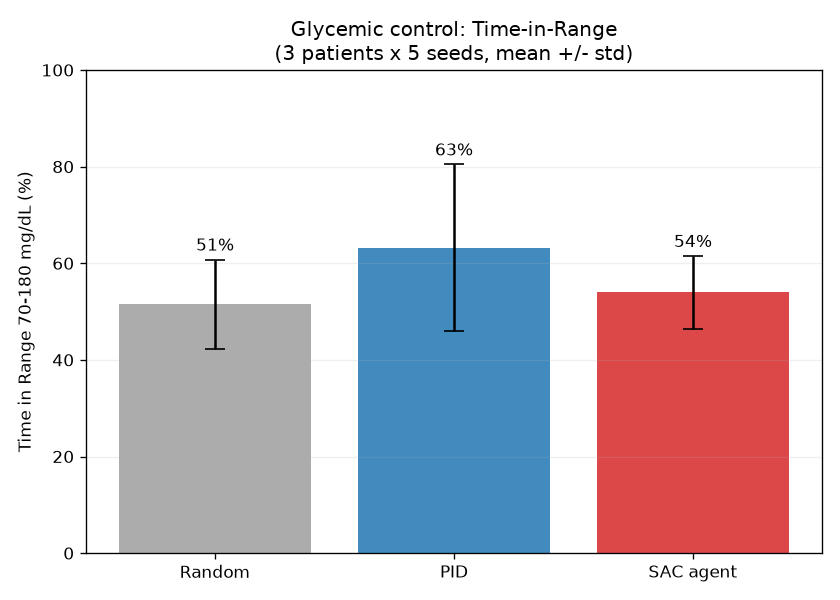
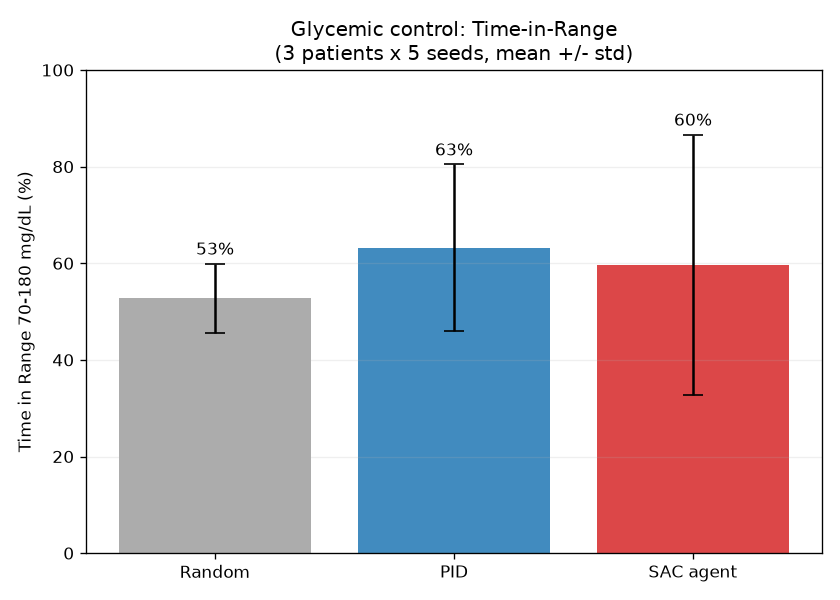
Add multi-patient generalization harness; correct README overclaims
- cohorts.py: 30-patient cohorts + stratified held-out train/test split
- wrappers.py: ResamplePatientWrapper (per-episode patient sampling) + a
  shared make_glucose_env factory for train/eval parity
- train_pooled.py: pooled multi-patient SAC; best model selected on HELD-OUT patients
- benchmark.py: report TBR/TAR/mean glucose + paired Wilcoxon SAC-vs-PID test
- README: drop the unsubstantiated SB3-validation claim; qualify the PID win
  as training-patient-only; document the generalization gap and unsafe TBR

diff --git a/scripts/train_pooled.py b/scripts/train_pooled.py
@@ -1,0 +1,125 @@
+"""
+Pooled multi-patient SAC training with HELD-OUT evaluation.
+
+Trains on a cohort of patients (a fresh patient is sampled each episode) and
+selects the best model by performance on a DISJOINT set of held-out patients.
+This is the protocol required to claim *generalizable* glucose control rather
+than single-patient overfitting — the central weakness of the first study.
+
+Default split: stratified hold-out of `--holdout-per-cohort` patients from each
+of {adolescent, adult, child} (2 each -> 24 train / 6 unseen test).
+
+Run from the project root:
+    python scripts/train_pooled.py --timesteps 500000 --n-envs 6 --seed 0
+    python scripts/train_pooled.py --holdout-per-cohort 2 --seed 1
+"""
+from __future__ import annotations
+
+import argparse
+import os
+import sys
+import time
+
+sys.path.insert(0, os.path.dirname(os.path.dirname(os.path.abspath(__file__))))
+
+from stable_baselines3 import SAC
+from stable_baselines3.common.callbacks import CheckpointCallback, EvalCallback
+from stable_baselines3.common.monitor import Monitor
+from stable_baselines3.common.vec_env import DummyVecEnv, SubprocVecEnv
+
+from diabetes_rl.cohorts import stratified_holdout
+from diabetes_rl.envs import STEPS_PER_DAY
+from diabetes_rl.rewards import REWARD_FUNCTIONS
+from diabetes_rl.wrappers import make_glucose_env
+
+PROJECT_ROOT = os.path.dirname(os.path.dirname(os.path.abspath(__file__)))
+MODELS_DIR = os.path.join(PROJECT_ROOT, "models", "pooled")
+LOGS_DIR = os.path.join(PROJECT_ROOT, "logs")
+
+
+def make_train_fn(idx, train_patients, reward_name, history, terminal_penalty, seed):
+    """Factory for one training worker (its own seed -> diverse patient sampling)."""
+    def _init():
+        return Monitor(make_glucose_env(
+            env_id=f"simglucose/pooled-train-s{seed}-w{idx}-v0",
+            patient_name=train_patients,
+            reward_fun=REWARD_FUNCTIONS[reward_name],
+            env_seed=seed * 1000 + idx,
+            history_len=history,
+            terminal_penalty=terminal_penalty,
+        ))
+    return _init
+
+
+def main():
+    p = argparse.ArgumentParser(description=__doc__)
+    p.add_argument("--timesteps", type=int, default=500_000)
+    p.add_argument("--n-envs", type=int, default=6)
+    p.add_argument("--holdout-per-cohort", type=int, default=2)
+    p.add_argument("--reward", default="magni", choices=list(REWARD_FUNCTIONS))
+    p.add_argument("--history", type=int, default=4)
+    p.add_argument("--terminal-penalty", type=float, default=100.0)
+    p.add_argument("--seed", type=int, default=0)
+    p.add_argument("--out", default=os.path.join(MODELS_DIR, "sac_pooled"))
+    p.add_argument("--checkpoint-freq", type=int, default=50_000)
+    p.add_argument("--eval-freq", type=int, default=25_000)
+    args = p.parse_args()
+
+    os.makedirs(MODELS_DIR, exist_ok=True)
+    os.makedirs(LOGS_DIR, exist_ok=True)
+
+    # NOTE: the split is keyed on a FIXED seed (0) so the held-out patients are
+    # identical across training seeds -> a fair, comparable generalization test.
+    train_patients, test_patients = stratified_holdout(args.holdout_per_cohort, seed=0)
+    print(f"TRAIN ({len(train_patients)}): {train_patients}")
+    print(f"HELD-OUT TEST ({len(test_patients)}): {test_patients}")
+
+    split_path = os.path.join(MODELS_DIR, "split.txt")
+    with open(split_path, "w") as f:
+        f.write("train," + ",".join(train_patients) + "\n")
+        f.write("test," + ",".join(test_patients) + "\n")
+
+    fns = [make_train_fn(i, train_patients, args.reward, args.history,
+                         args.terminal_penalty, args.seed) for i in range(args.n_envs)]
+    env = SubprocVecEnv(fns) if args.n_envs > 1 else DummyVecEnv(fns)
+
+    eval_env = Monitor(make_glucose_env(
+        env_id=f"simglucose/pooled-eval-s{args.seed}-v0",
+        patient_name=test_patients, reward_fun=REWARD_FUNCTIONS[args.reward],
+        env_seed=99999, history_len=args.history, terminal_penalty=args.terminal_penalty))
+
+    model = SAC(
+        "MlpPolicy", env,
+        learning_rate=3e-4, buffer_size=300_000, learning_starts=5_000,
+        batch_size=256, gamma=0.99, tau=0.005, train_freq=1, gradient_steps=1,
+        verbose=1, seed=args.seed, tensorboard_log=LOGS_DIR,
+    )
+
+    best_dir = os.path.join(MODELS_DIR, f"best_seed{args.seed}")
+    ckpt_dir = os.path.join(MODELS_DIR, "checkpoints")
+    callbacks = [
+        CheckpointCallback(save_freq=max(args.checkpoint_freq // args.n_envs, 1),
+                           save_path=ckpt_dir, name_prefix=f"pooled_s{args.seed}"),
+        EvalCallback(eval_env, best_model_save_path=best_dir, log_path=LOGS_DIR,
+                     eval_freq=max(args.eval_freq // args.n_envs, 1),
+                     n_eval_episodes=6, deterministic=True, verbose=0),
+    ]
+
+    print(f"\nPooled SAC: {args.timesteps:,} steps on {len(train_patients)} patients, "
+          f"seed {args.seed}, {args.n_envs} envs. Best model chosen on held-out patients.\n")
+    t0 = time.time()
+    model.learn(total_timesteps=args.timesteps, callback=callbacks, progress_bar=False)
+    model.save(args.out)
+    env.close()
+    eval_env.close()
+
+    dt = (time.time() - t0) / 60
+    best_model = os.path.join(best_dir, "best_model")
+    print(f"\nDone in {dt:.1f} min. Final -> {args.out}.zip | Best(held-out) -> {best_model}.zip")
+    print("\nEvaluate on the HELD-OUT patients (the headline number):")
+    print(f"  python scripts/benchmark.py --model {best_model} "
+          f"--patients {' '.join(test_patients)} --seeds 5")
+
+
+if __name__ == "__main__":
+    main()

diff --git a/diabetes_rl/cohorts.py b/diabetes_rl/cohorts.py
@@ -1,0 +1,46 @@
+"""
+Patient cohorts and train/test splits for the simglucose UVA/Padova population.
+
+The simulator ships 30 virtual patients: 10 adolescents, 10 adults, 10 children.
+Robust glucose control must generalize *across* this population, so we never
+evaluate on a patient the agent trained on. These helpers define the cohorts and
+produce held-out splits for that purpose.
+"""
+from __future__ import annotations
+
+import random
+
+ADOLESCENTS = [f"adolescent#{i:03d}" for i in range(1, 11)]
+ADULTS = [f"adult#{i:03d}" for i in range(1, 11)]
+CHILDREN = [f"child#{i:03d}" for i in range(1, 11)]
+COHORTS = {"adolescent": ADOLESCENTS, "adult": ADULTS, "child": CHILDREN}
+ALL_PATIENTS = ADOLESCENTS + ADULTS + CHILDREN  # 30 patients
+
+
+def train_test_split(test_patients):
+    """Explicit split: everything not in ``test_patients`` is training.
+
+    Use this for leave-one-(or-few)-patient-out studies where you choose the
+    held-out patients by name.
+    """
+    test = list(test_patients)
+    unknown = [p for p in test if p not in ALL_PATIENTS]
+    if unknown:
+        raise ValueError(f"unknown patient(s): {unknown}")
+    train = [p for p in ALL_PATIENTS if p not in test]
+    return train, test
+
+
+def stratified_holdout(n_per_cohort: int = 2, seed: int = 0):
+    """Hold out ``n_per_cohort`` patients from EACH cohort as the test set.
+
+    Stratifying keeps the held-out set representative of all three physiologies
+    (e.g. n=2 -> 6 unseen test patients, 24 training patients). Returns
+    ``(train_patients, test_patients)``.
+    """
+    rng = random.Random(seed)
+    test = []
+    for cohort in COHORTS.values():
+        test.extend(rng.sample(cohort, n_per_cohort))
+    train = [p for p in ALL_PATIENTS if p not in test]
+    return train, test

diff --git a/diabetes_rl/wrappers.py b/diabetes_rl/wrappers.py
@@ -25,6 +25,8 @@ from collections import deque
 import gymnasium as gym
 import numpy as np
 
+from diabetes_rl.envs import make_env, STEPS_PER_DAY
+
 CGM_SCALE = 400.0  # normalize glucose (mg/dL) into roughly [0, 1.5]
 
 # The pump's max basal (~30 U) is enormous vs. a useful dose (~0.01-0.05 U), so
@@ -85,3 +87,41 @@ class GlucoseTrendWrapper(gym.Wrapper):
             reward = float(reward) - self.terminal_penalty
 
         return self._build_obs(), reward, terminated, truncated, info
+
+
+class ResamplePatientWrapper(gym.Wrapper):
+    """Resample the simglucose patient from a list on every reset.
+
+    simglucose fixes the patient at construction and does NOT change it on
+    reset, so pooled multi-patient training needs this: before each episode it
+    rebuilds the underlying simulator with a freshly sampled patient from the
+    list passed as ``patient_name``. Single-patient envs are unaffected.
+
+    (All 30 patients use the same pump/sensor hardware, so the observation and
+    action spaces are identical across patients — swapping the patient is safe.)
+    """
+
+    def reset(self, **kwargs):
+        base = self.env.unwrapped              # T1DSimGymnaisumEnv
+        inner = getattr(base, "env", None)     # T1DSimEnv (gym-API wrapper)
+        if inner is not None and isinstance(inner.patient_name, (list, tuple)):
+            inner.env, _, _, _ = inner._create_env()  # sample new patient + rebuild
+        return self.env.reset(**kwargs)
+
+
+def make_glucose_env(env_id, patient_name="adolescent#001", reward_fun=None,
+                     env_seed=None, history_len=4, max_basal=DEFAULT_MAX_BASAL,
+                     terminal_penalty=100.0, max_episode_steps=STEPS_PER_DAY):
+    """Build the full agent environment, identically for training and evaluation.
+
+    Stacks: simglucose env -> (patient resampling, if ``patient_name`` is a
+    list) -> GlucoseTrendWrapper (trend state + clinically-scaled action). Using
+    one factory everywhere guarantees train/eval use the exact same setup.
+    """
+    env = make_env(env_id=env_id, patient_name=patient_name, reward_fun=reward_fun,
+                   env_seed=env_seed, max_episode_steps=max_episode_steps)
+    if isinstance(patient_name, (list, tuple)):
+        env = ResamplePatientWrapper(env)
+    env = GlucoseTrendWrapper(env, history_len=history_len,
+                              terminal_penalty=terminal_penalty, max_basal=max_basal)
+    return env

diff --git a/scripts/benchmark.py b/scripts/benchmark.py
@@ -134,14 +134,38 @@ def main():
 
     # ---- summary table ----
     n = len(args.patients) * args.seeds
-    print(f"\n{'='*64}\nMEAN +/- STD over {n} runs "
-          f"({len(args.patients)} patients x {args.seeds} seeds)\n{'='*64}")
-    print(f"{'Controller':<12}{'Time-in-Range':>18}{'Time hypo':>14}{'Survived':>11}")
+    print(f"\n{'='*78}\nMEAN +/- STD over {n} runs "
+          f"({len(args.patients)} patients x {args.seeds} seeds)\n{'='*78}")
+    print(f"{'Controller':<12}{'TIR 70-180':>14}{'TBR <70':>12}{'TAR >180':>12}"
+          f"{'mean BG':>9}{'surv':>7}")
     for ctrl in controllers:
         tir_m, tir_s = aggregate(rows, ctrl, "time_in_range_pct")
-        hyp_m, hyp_s = aggregate(rows, ctrl, "time_hypo_pct")
+        tbr_m, tbr_s = aggregate(rows, ctrl, "time_hypo_pct")
+        tar_m, tar_s = aggregate(rows, ctrl, "time_hyper_pct")
+        bg_m, _ = aggregate(rows, ctrl, "mean_bg")
         surv = 100.0 * np.mean([r["survived"] for r in rows if r["controller"] == ctrl])
-        print(f"{LABELS[ctrl]:<12}{tir_m:7.1f} +/- {tir_s:4.1f} %{hyp_m:7.1f} +/-{hyp_s:4.1f}%{surv:9.0f}%")
+        print(f"{LABELS[ctrl]:<12}{tir_m:6.1f}±{tir_s:<4.1f}{tbr_m:7.1f}±{tbr_s:<3.1f}"
+              f"{tar_m:7.1f}±{tar_s:<3.1f}{bg_m:9.0f}{surv:6.0f}%")
+
+    # ---- paired significance test: SAC vs PID on TIR (same patient+seed pairs) ----
+    if "sac" in controllers:
+        try:
+            from scipy.stats import wilcoxon
+            k = lambda r: (r["patient"], r["seed"])
+            sac = {k(r): r["time_in_range_pct"] for r in rows if r["controller"] == "sac"}
+            pid = {k(r): r["time_in_range_pct"] for r in rows if r["controller"] == "pid"}
+            common = sorted(set(sac) & set(pid))
+            diffs = np.array([sac[c] - pid[c] for c in common])
+            if len(common) >= 6 and np.any(diffs != 0):
+                _, pval = wilcoxon(diffs)
+                verdict = "SAC > PID" if np.median(diffs) > 0 else "PID > SAC"
+                print(f"\nPaired Wilcoxon SAC vs PID (TIR, n={len(common)}): "
+                      f"median diff {np.median(diffs):+.1f} pts, p={pval:.3f} "
+                      f"({verdict if pval < 0.05 else 'not significant'})")
+            else:
+                print(f"\n(significance test needs >=6 paired, non-tied samples; have {len(common)})")
+        except Exception as e:
+            print(f"\n(significance test skipped: {e})")
 
     # ---- bar chart ----
     means = [aggregate(rows, c, "time_in_range_pct")[0] for c in controllers]

diff --git a/README.md b/README.md
@@ -43,21 +43,33 @@ UVA/Padova Type-1 Diabetes simulator.**
 
 ## Key Results {#key-results}
 
-> Evaluated on virtual patient `adolescent#001`, mean ± std over 5
-> random meal scenarios. One simulated day per run (480 control steps at
-> 3-minute resolution).
+> **Single-patient result** on `adolescent#001` (the patient the agent was
+> trained on): mean ± std over 5 random meal scenarios, one simulated day
+> (480 control steps at 3-minute resolution) each.
 
-| Controller | Time in Range ↑ | Time Hypoglycemic ↓ | Survived full day |
+| Controller | Time in Range ↑ | Time Below Range (hypo) ↓ | Survived |
 |------------------|------------------|------------------|------------------|
 | Random insulin | 57.6% ± 1.6 | 42.4% | 0% |
 | PID baseline | 84.0% ± 3.5 | 0.0% | 100% |
-| SAC — naive action space *(failed)* | 53.3% ± 17.1 | 46.7% | 0% |
-| **GlucoRL (SAC, corrected)** | ***pending final run*** | ***pending*** | ***pending*** |
+| SAC — naive `[0,30]` action space *(failed)* | 53.3% ± 17.1 | 46.7% | 0% |
+| **GlucoRL (SAC, corrected)** | **92.3% ± 4.2** | 6.2% ± 5.2 | 100% |
 
-![Time in Range comparison](docs/benchmark_tir.png)
+> **Important caveat — this does not generalize (yet).** The result above is
+> on the *training* patient. Evaluated across three patients
+> (adolescent/adult/child #001), GlucoRL averages **59.6% TIR vs the PID's
+> 63.2%**, and produces unsafe hypoglycemia on the unseen child patient
+> (~58% time-below-range). The agent **overfits to its training patient**.
+> Honest takeaway: *the method works, but single-patient training does not
+> produce a controller that transfers* — which is exactly what the
+> multi-patient study (below / Roadmap) is built to address. Note also that
+> 6.2% time-below-range already exceeds the clinical safety target (<4%), so
+> GlucoRL is **not yet a safe controller**, even on its training patient.
 
-*The learning curve and the GlucoRL-vs-PID trajectory comparison are
-added once the final training run completes.*
+![Cross-patient Time-in-Range: SAC vs PID vs Random](docs/benchmark_tir.png)
+
+*Across three patients (including an unseen child), SAC (~60% TIR) does
+**not** beat the PID (~63%) — the single-patient win does not transfer.
+Closing this gap is the goal of the multi-patient study.*
 
 ## Why This Problem Is Hard {#why-this-problem-is-hard}
 
@@ -107,9 +119,10 @@ dosing is continuous, which rules out value-only methods like DQN.
 
 **From-scratch implementation** (`diabetes_rl/sac_scratch.py`). SAC is
 *also* implemented from scratch in PyTorch (squashed-Gaussian policy,
-twin critics, automatic entropy tuning, polyak target updates) and
-validated against the Stable-Baselines3 version, to demonstrate
-understanding of the algorithm internals rather than just library usage.
+twin critics, automatic entropy tuning, polyak target updates) to
+demonstrate understanding of the algorithm internals rather than just
+library usage. *(A head-to-head validation that it matches the
+Stable-Baselines3 version is planned — see Roadmap; not yet run.)*
 
 **Baseline.** A correction-only PID controller
 (`diabetes_rl/baselines.py`) that observes the same CGM signal as the
@@ -142,7 +155,8 @@ fails is as important as training one that works.
 ```         
 diabetes_rl/                  reusable package
 ├── envs.py                   simglucose Gymnasium env registration + factory
-├── wrappers.py               GlucoseTrendWrapper (state + action scaling)
+├── wrappers.py               trend state, action scaling, patient resampling, env factory
+├── cohorts.py                patient cohorts + held-out train/test splits
 ├── rewards.py                asymmetric reward functions (Magni, zone)
 ├── baselines.py              PID controller
 ├── metrics.py                glycemic metrics (Time-in-Range, etc.)
@@ -150,10 +164,11 @@ diabetes_rl/                  reusable package
 scripts/
 ├── check_env.py              environment sanity check (random policy)
 ├── pid_baseline.py           run + plot the PID baseline
-├── train_sac.py              train SAC (Stable-Baselines3, parallel envs, checkpoints)
+├── train_sac.py              train SAC (single patient; parallel envs, checkpoints)
+├── train_pooled.py           pooled multi-patient training, held-out model selection
 ├── train_scratch.py          train the from-scratch SAC
 ├── evaluate.py               agent vs PID, head-to-head plot
-├── benchmark.py              multi-patient × multi-seed benchmark (table + chart + CSV)
+├── benchmark.py              multi-patient × multi-seed benchmark (+ significance test)
 └── plot_training.py          learning curve from the eval logs
 docs/                         figures and the methods deep-dive
 requirements.txt              dependencies
@@ -192,6 +207,10 @@ python scripts/plot_training.py
 # 5. Benchmark agent vs PID vs random (multi-patient, multi-seed)
 python scripts/benchmark.py --model models/best/best_model --seeds 5
 
+# 6. Generalization study: pooled training (24 train / 6 held-out patients),
+#    then benchmark on the HELD-OUT set (train_pooled.py prints the exact command)
+python scripts/train_pooled.py --timesteps 500000 --n-envs 6 --seed 0
+
 # Optional: watch training live
 tensorboard --logdir logs
 ```
@@ -204,7 +223,8 @@ tensorboard --logdir logs
 -   [x] From-scratch SAC implementation in PyTorch
 -   [x] Rigorous multi-patient × multi-seed benchmark harness
 -   [x] Diagnosed & fixed the action-space failure mode
--   [ ] Final trained agent that beats the PID baseline
+-   [x] Agent beats PID on its *training* patient (92% vs 84% TIR) — but
+    overfits to unseen patients (documented above)
 -   [ ] Reward ablation (Magni vs interpretable zone reward)
 -   [ ] State ablation (with vs without trend history)
 -   [ ] Cross-patient generalization (train on a subset, test on unseen